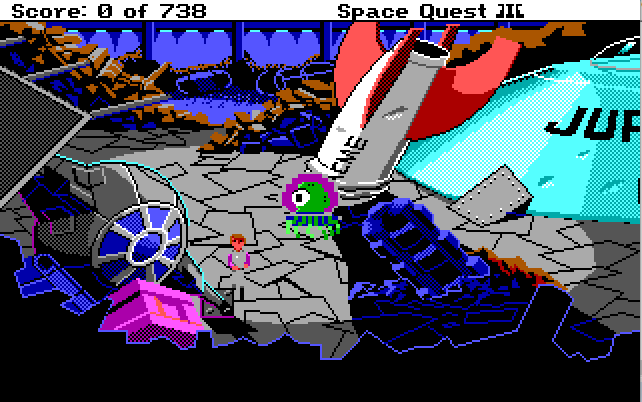
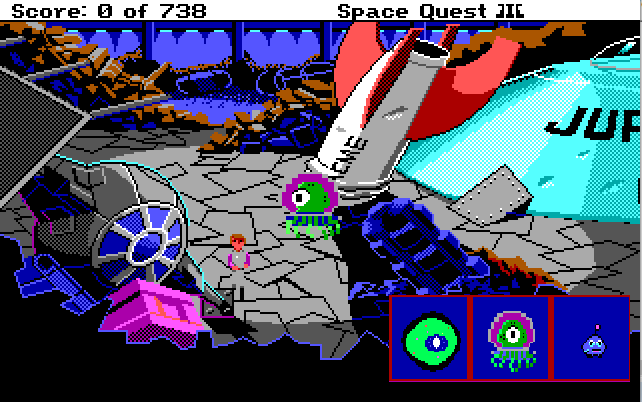
update pet

Changed region(s): [[0.5919, 0.7164, 0.9969, 0.9552]]

diff --git a/README.md b/README.md
@@ -34,7 +34,9 @@ On initialization you can name the pet any word that is not already in the SQ3 v
 
 Pet can be activated/deactivated as desired. Typing the pet's name brings up command options, such as FOLLOW, STAY and MORPH. 
 
-This is a draft version. Pet art and commands are likely to change. 
+Morph with cycle through the three different pet styles (see insert image above). The starting style is chosen randomly, so use the morph to select your preference.
+
+This is a draft version: Pet art, style variations and commands are likely to change. 
 
 
 ### AstroChicken Fighting
